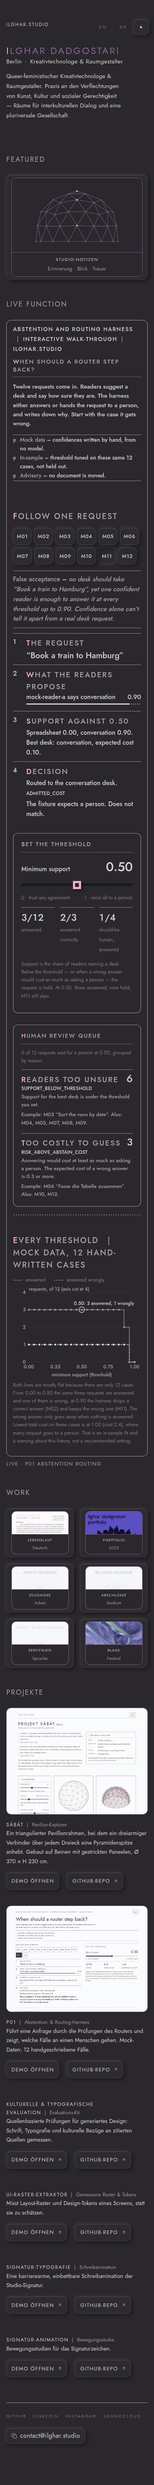
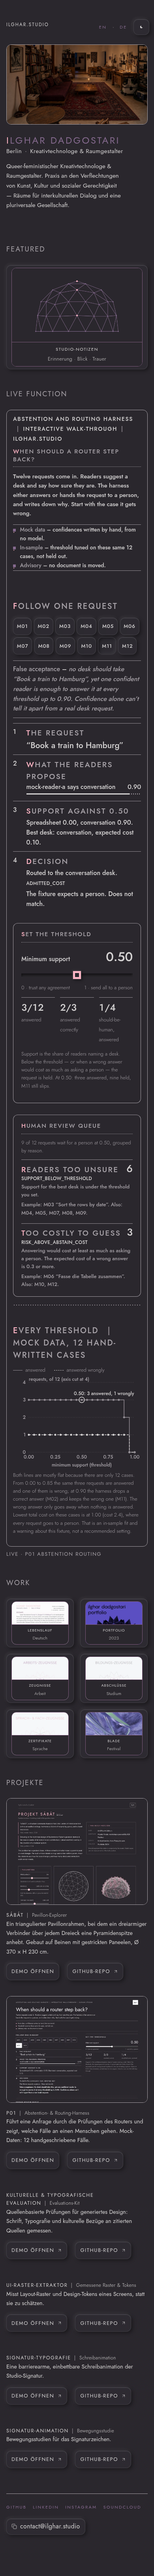
Restore the studio room hero and theme-aware project covers
Put cover-day.jpg / cover-night.jpg back at the top as a <picture>
with a prefers-color-scheme source, and wire sabat-dark.webp and
p01-dark.webp the same way. An external script rewrites each source
media when the theme toggle sets data-theme, so pictures follow the
toggle as well as the OS setting, without inline script or style.

diff --git a/public/theme-pictures.js b/public/theme-pictures.js
@@ -1,0 +1,56 @@
+/* Keep <picture> sources in sync with the theme toggle (data-theme),
+   not only the OS prefers-color-scheme media they ship with. */
+(function () {
+  var DARK_MQ = "(prefers-color-scheme: dark)";
+
+  function currentTheme() {
+    var root = document.documentElement;
+    var attr = root.getAttribute("data-theme");
+    if (attr === "dark" || attr === "light") return attr;
+    if (root.classList.contains("dark")) return "dark";
+    if (root.classList.contains("light")) return "light";
+    try {
+      var stored = localStorage.getItem("ilghar-theme");
+      if (stored === "dark" || stored === "light") return stored;
+    } catch (e) {}
+    return window.matchMedia(DARK_MQ).matches ? "dark" : "light";
+  }
+
+  function isThemeSource(source) {
+    if (source.getAttribute("data-theme") === "dark" || source.getAttribute("data-theme") === "light") {
+      return true;
+    }
+    var media = source.getAttribute("media") || "";
+    return /prefers-color-scheme:\s*dark/i.test(media) || media === "all" || media === "not all";
+  }
+
+  function intendedTheme(source) {
+    var marked = source.getAttribute("data-theme");
+    if (marked === "dark" || marked === "light") return marked;
+    return "dark";
+  }
+
+  function sync() {
+    var theme = currentTheme();
+    document.querySelectorAll("picture source").forEach(function (source) {
+      if (!isThemeSource(source)) return;
+      source.media = intendedTheme(source) === theme ? "all" : "not all";
+    });
+  }
+
+  function start() {
+    sync();
+    new MutationObserver(sync).observe(document.documentElement, {
+      attributes: true,
+      attributeFilter: ["data-theme", "class"],
+      childList: true,
+      subtree: true,
+    });
+  }
+
+  if (document.readyState === "loading") {
+    document.addEventListener("DOMContentLoaded", start);
+  } else {
+    start();
+  }
+})();

diff --git a/src/components/link-in-bio.tsx b/src/components/link-in-bio.tsx
@@ -14,9 +14,10 @@ import { FrameCard } from "@/components/frame-card";
 import { ProjectCard } from "@/components/project-card";
 import { LangToggle } from "@/components/lang-toggle";
 import { ThemeToggle } from "@/components/theme-toggle";
+import { ThemePicture } from "@/components/theme-picture";
 import { Viewer } from "@/components/viewer";
 
-/** Home on LAYOUT v2: 448/576/672 column, 12px frames, glass CTAs. */
+/** Home on LAYOUT v2: 100%/720/760 column, 12px frames, glass CTAs. */
 export function LinkInBio({ lang }: { lang: Lang }) {
   useLang(lang);
   const [open, setOpen] = useState<Collection | null>(null);
@@ -47,6 +48,8 @@ export function LinkInBio({ lang }: { lang: Lang }) {
             />
           </div>
         </header>
+
+        <Cover lang={lang} />
 
         <header className="hero pb-6 text-left">
           <h1 className="name">
@@ -161,18 +164,19 @@ export function LinkInBio({ lang }: { lang: Lang }) {
   );
 }
 
-function Cover() {
+function Cover({ lang }: { lang: Lang }) {
   return (
-    <div className="relative aspect-[16/9] w-full overflow-hidden md:rounded-b-sm">
-      {/* Day and night covers are CSS backgrounds keyed to the theme class, so
-          the browser only downloads the one that is showing. */}
-      <div aria-hidden="true" className="cover-img cover-day absolute inset-0" />
-      <div aria-hidden="true" className="cover-img cover-night absolute inset-0" />
-      <div
-        aria-hidden="true"
-        className="absolute inset-x-0 bottom-0 h-16 bg-gradient-to-t from-canvas to-transparent"
+    <figure className="hero-cover">
+      <ThemePicture
+        light="/cover-day.jpg?v=19"
+        dark="/cover-night.jpg?v=19"
+        alt={t(lang, "studioCoverAlt")}
+        width={1600}
+        height={900}
+        eager
+        imgClassName="hero-cover-img"
       />
-    </div>
+    </figure>
   );
 }
 

diff --git a/src/components/project-card.tsx b/src/components/project-card.tsx
@@ -1,6 +1,7 @@
 import { ArrowUpRight } from "lucide-react";
 import { type Lang, t } from "@/lib/i18n";
 import type { Project } from "@/lib/profile";
+import { ThemePicture } from "@/components/theme-picture";
 
 const link = "cta";
 
@@ -18,24 +19,17 @@ export function ProjectCard({ project, lang }: { project: Project; lang: Lang })
           className="group block focus-visible:outline-none focus-visible:ring-2 focus-visible:ring-ring"
         >
           <span className="frame r43 relative block overflow-hidden">
-            {[
-              [project.coverLight, project.coverLightHi, project.coverDark ? "dark:hidden" : ""],
-              ...(project.coverDark ? [[project.coverDark, project.coverDarkHi, "hidden dark:block"]] : []),
-            ].map(([src, hi, vis]) => (
-              <img
-                key={src}
-                src={src}
-                srcSet={hi ? `${src} 640w, ${hi} 1280w` : undefined}
-                sizes={sizes}
-                alt={project.alt ? t(lang, project.alt) : ""}
-                width={640}
-                height={480}
-                loading="lazy"
-                decoding="async"
-                draggable={false}
-                className={`${vis} h-full w-full object-cover object-top`}
-              />
-            ))}
+            <ThemePicture
+              light={project.coverLight}
+              lightHi={project.coverLightHi}
+              dark={project.coverDark}
+              darkHi={project.coverDarkHi}
+              alt={project.alt ? t(lang, project.alt) : ""}
+              width={640}
+              height={640}
+              sizes={sizes}
+              imgClassName="h-full w-full object-cover object-top"
+            />
           </span>
         </a>
       ) : null}

diff --git a/src/routes/__root.tsx b/src/routes/__root.tsx
@@ -9,7 +9,7 @@ import { langFromPath } from "@/lib/i18n";
 import { jsonLd } from "@/lib/seo";
 import appCss from "../styles.css?url";
 
-const BOOT = `(function(){try{document.documentElement.setAttribute("dir","ltr");var t=localStorage.getItem("ilghar-theme");var d=t==="dark"||(t!=="light"&&window.matchMedia("(prefers-color-scheme: dark)").matches);document.documentElement.classList.toggle("dark",d);document.documentElement.style.colorScheme=d?"dark":"light";document.documentElement.lang=/^\\/de(\\/|$)/.test(location.pathname)?"de":"en";}catch(e){}})();`;
+const BOOT = `(function(){try{document.documentElement.setAttribute("dir","ltr");var t=localStorage.getItem("ilghar-theme");var d=t==="dark"||(t!=="light"&&window.matchMedia("(prefers-color-scheme: dark)").matches);document.documentElement.classList.toggle("dark",d);document.documentElement.classList.toggle("light",!d);document.documentElement.setAttribute("data-theme",d?"dark":"light");document.documentElement.style.colorScheme=d?"dark":"light";document.documentElement.lang=/^\\/de(\\/|$)/.test(location.pathname)?"de":"en";}catch(e){}})();`;
 
 export const Route = createRootRoute({
   head: () => ({
@@ -39,6 +39,7 @@ function RootDocument() {
       <head>
         <HeadContent />
         <script dangerouslySetInnerHTML={{ __html: BOOT }} />
+        <script src="/theme-pictures.js" defer />
         <script type="application/ld+json" dangerouslySetInnerHTML={{ __html: jsonLd(lang) }} />
       </head>
       <body className="antialiased">

diff --git a/src/components/theme-picture.tsx b/src/components/theme-picture.tsx
@@ -1,0 +1,60 @@
+/** Light/dark <picture> using a prefers-color-scheme source. An external
+ *  script rewrites each source's media when the theme toggle sets data-theme. */
+export function ThemePicture({
+  light,
+  lightHi,
+  dark,
+  darkHi,
+  alt,
+  width,
+  height,
+  sizes,
+  className,
+  imgClassName,
+  eager = false,
+}: {
+  light: string;
+  lightHi?: string;
+  dark?: string;
+  darkHi?: string;
+  alt: string;
+  width: number;
+  height: number;
+  sizes?: string;
+  className?: string;
+  imgClassName?: string;
+  eager?: boolean;
+}) {
+  const lightSrcSet = lightHi ? `${light} ${width}w, ${lightHi} 1280w` : undefined;
+  const darkSrcSet = dark
+    ? darkHi
+      ? `${dark} ${width}w, ${darkHi} 1280w`
+      : dark
+    : undefined;
+
+  return (
+    <picture className={className}>
+      {dark && darkSrcSet ? (
+        <source
+          media="(prefers-color-scheme: dark)"
+          srcSet={darkSrcSet}
+          sizes={sizes}
+          data-theme="dark"
+        />
+      ) : null}
+      <img
+        src={light}
+        srcSet={lightSrcSet}
+        sizes={sizes}
+        alt={alt}
+        width={width}
+        height={height}
+        loading={eager ? "eager" : "lazy"}
+        decoding="async"
+        fetchPriority={eager ? "high" : undefined}
+        draggable={false}
+        className={imgClassName}
+      />
+    </picture>
+  );
+}

diff --git a/src/styles.css b/src/styles.css
@@ -86,17 +86,20 @@
   transition: opacity var(--motion-slow) var(--ease-out);
 }
 
-/* Only the active theme's cover matches a rule with a background, so only that
-   file is fetched. Bump ?v= with V in profile.ts. */
-.cover-img {
-  background-position: center;
-  background-size: cover;
+.hero-cover {
+  margin: 0 0 1.5rem;
+  overflow: hidden;
+  border: 0.32pt solid var(--line);
+  border-radius: var(--r-frame);
+  background: var(--surface);
 }
-:root:not(.dark) .cover-day {
-  background-image: url("/cover-day.jpg?v=16");
-}
-.dark .cover-night {
-  background-image: url("/cover-night.jpg?v=16");
+.hero-cover-img {
+  display: block;
+  width: 100%;
+  height: auto;
+  aspect-ratio: 16 / 9;
+  object-fit: cover;
+  object-position: center;
 }
 
 .viewer-strip {

diff --git a/src/lib/i18n.ts b/src/lib/i18n.ts
@@ -52,6 +52,10 @@ export const copy = {
   based: { en: "Berlin", de: "Berlin" },
   themeLight: { en: "Day", de: "Tag" },
   themeDark: { en: "Night", de: "Nacht" },
+  studioCoverAlt: {
+    en: "The studio room: a daybed and Persian carpet facing workbenches and a wall of books.",
+    de: "Der Atelierraum: eine Liege und ein persischer Teppich vor Werkbänken und einer Bücherwand.",
+  },
   prev: { en: "Previous", de: "Zurück" },
   next: { en: "Next", de: "Weiter" },
   close: { en: "Close", de: "Schließen" },
